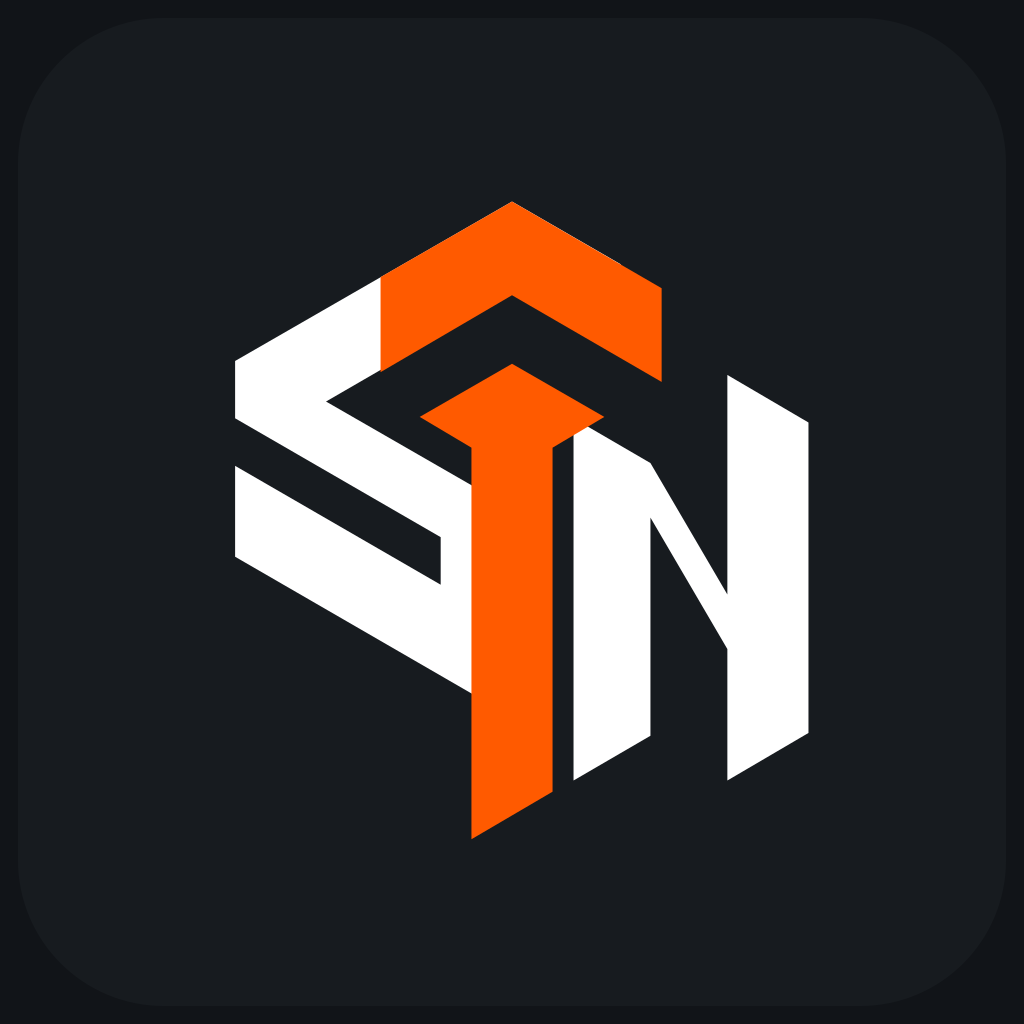
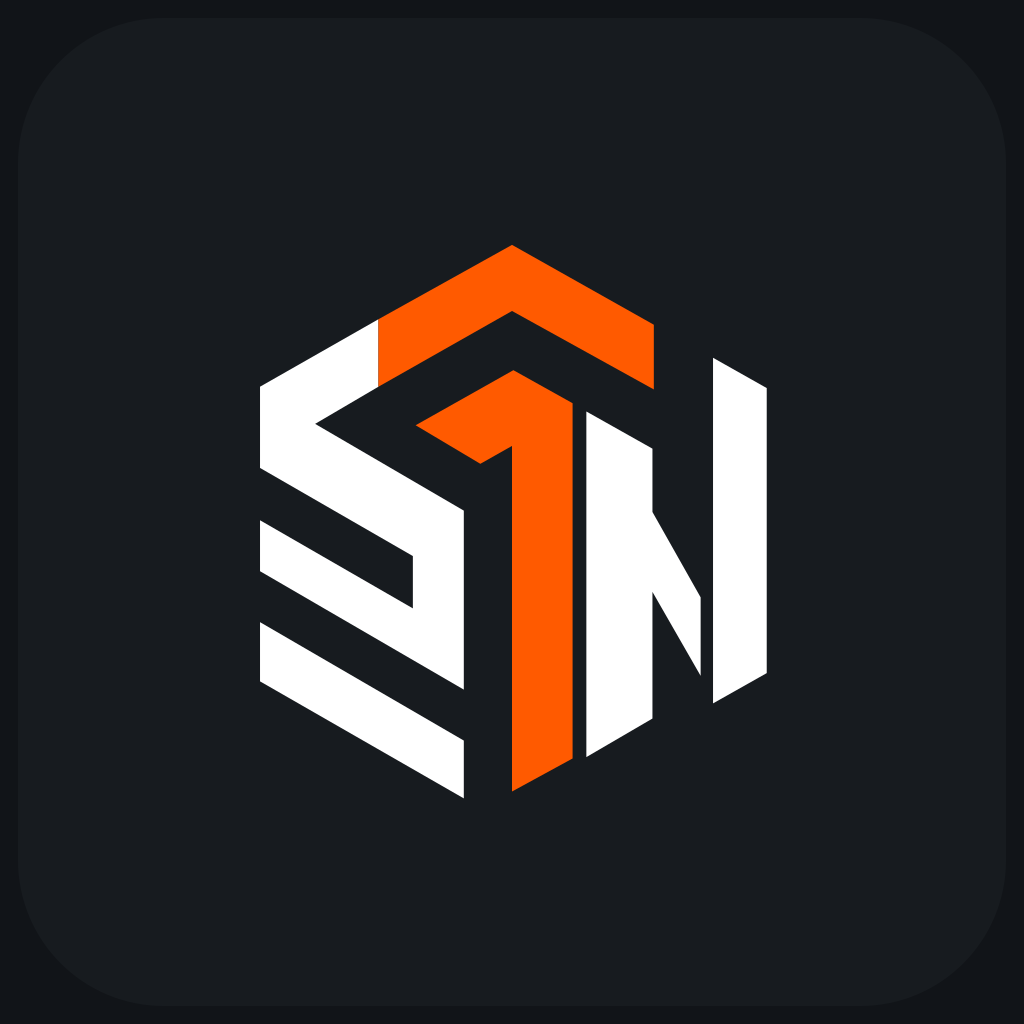
V4.9.1 로고 원본 형태 및 PWA 아이콘 갱신 (#60)

diff --git a/src/app/layout.tsx b/src/app/layout.tsx
@@ -14,14 +14,14 @@ import { PwaRegister } from "@/components/pwa-register";
 export const metadata: Metadata = {
   title: "SAN WMS",
   description: "상품·로케이션 바코드 기반 실시간 재고관리",
-  manifest: "/manifest.webmanifest",
+  manifest: "/manifest.webmanifest?v=491",
   icons: {
     icon: [
-      { url: "/san-wms-favicon.ico" },
-      { url: "/san-wms-favicon-32.png", sizes: "32x32", type: "image/png" },
-      { url: "/san-wms-app-icon-192.png", sizes: "192x192", type: "image/png" },
+      { url: "/san-wms-favicon.ico?v=491" },
+      { url: "/san-wms-favicon-32.png?v=491", sizes: "32x32", type: "image/png" },
+      { url: "/san-wms-app-icon-192.png?v=491", sizes: "192x192", type: "image/png" },
     ],
-    apple: "/san-wms-app-icon-192.png",
+    apple: "/san-wms-app-icon-192.png?v=491",
   },
 };
 

diff --git a/public/sw.js b/public/sw.js
@@ -1,4 +1,4 @@
-const CACHE = "san-wms-v4-8-0-static";
+const CACHE = "san-wms-v4-9-1-static";
 const ASSETS = ["/", "/benefits", "/work-requests", "/shipment-documents", "/my-consent", "/scan", "/stocktakes", "/inventory", "/utilization", "/location-map", "/transfers", "/external-transfers", "/products", "/products/merge", "/locations", "/barcodes", "/logs", "/import", "/users"];
 self.addEventListener("install", (event) => {
   event.waitUntil(caches.open(CACHE).then((cache) => cache.addAll(ASSETS)).catch(() => undefined));
